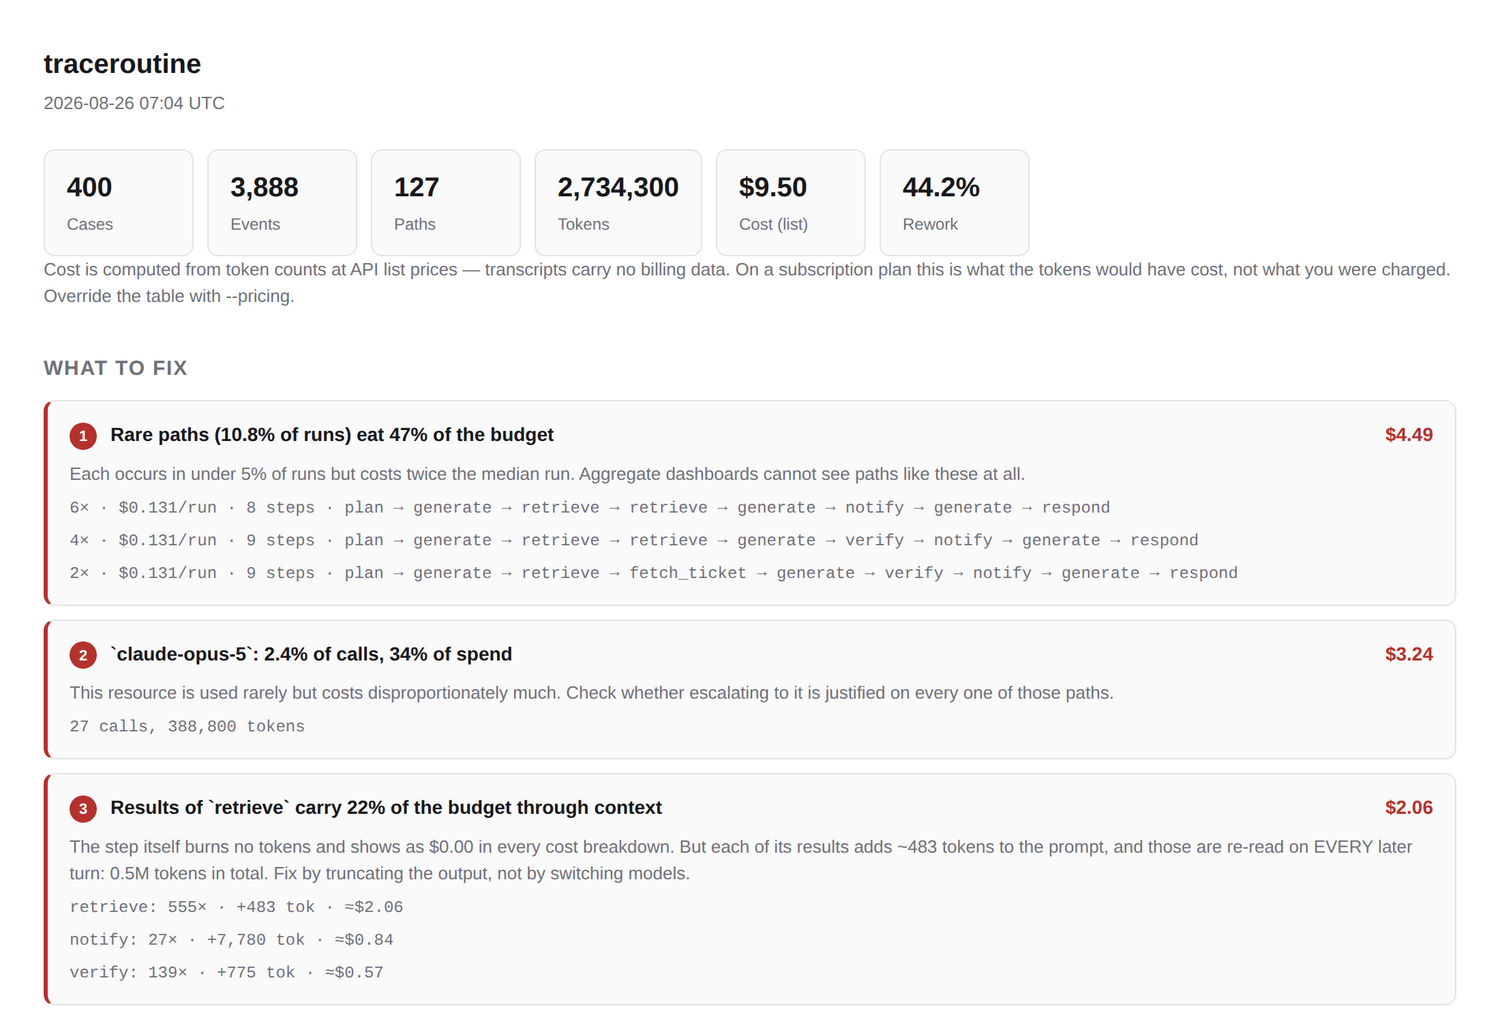
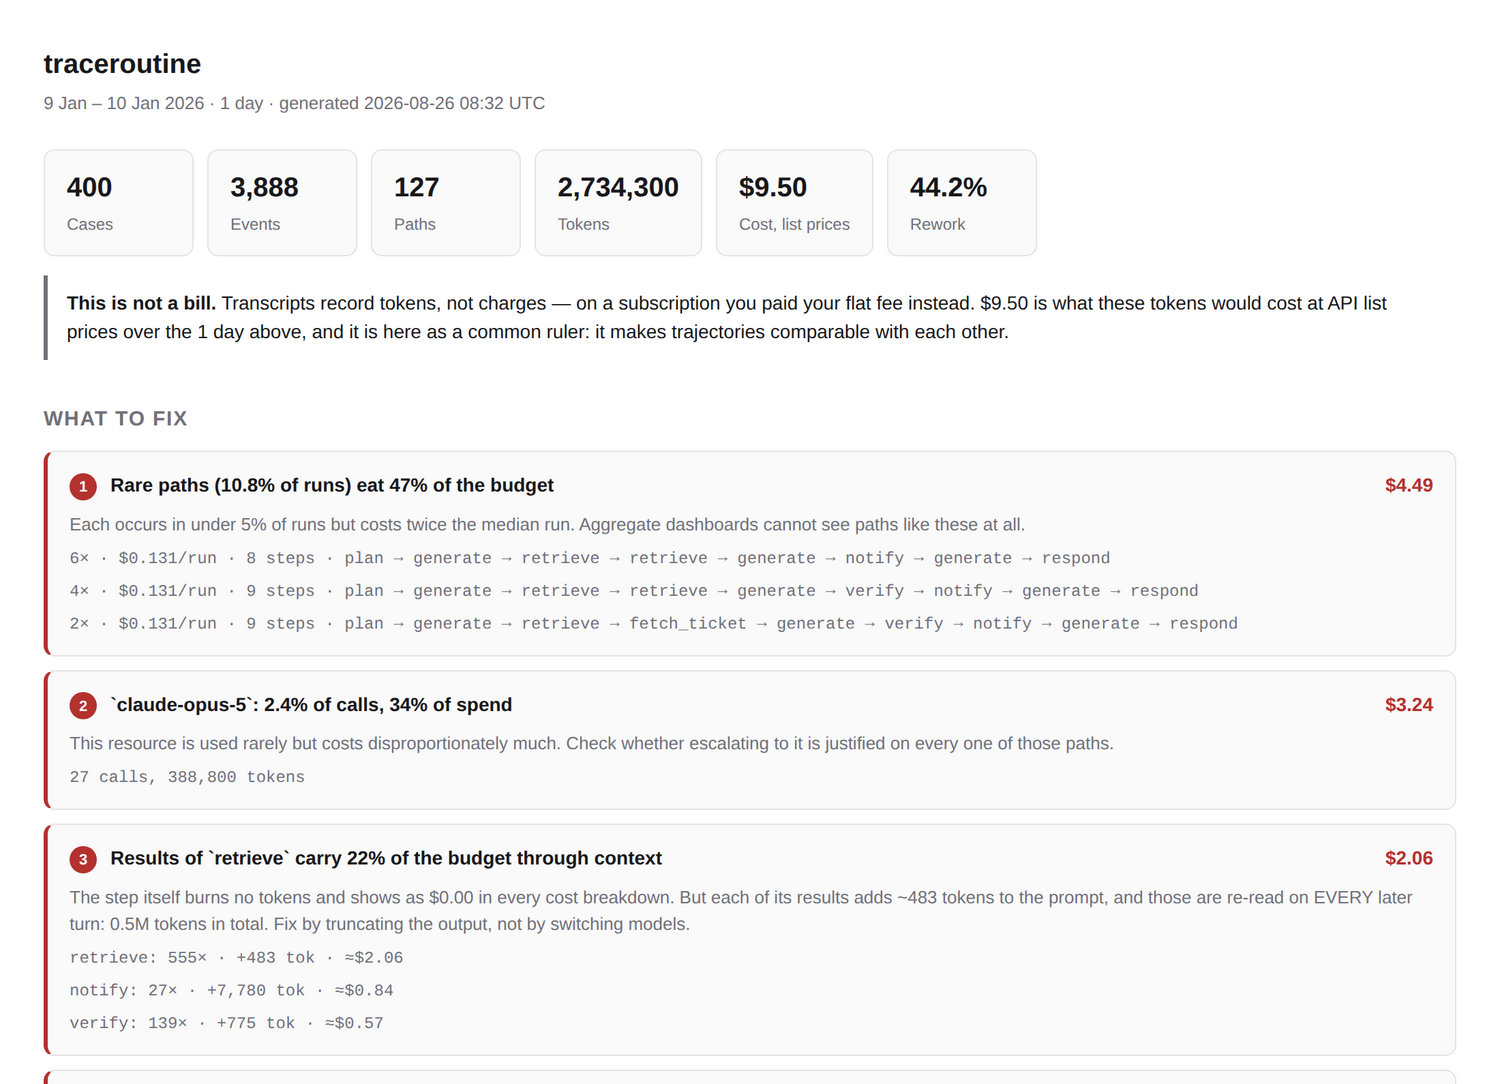
Answer the three questions the report kept provoking
Someone who already knew the answer looked at the HTML report and still asked
where $800 came from on a $20 subscription. That settles it: the note added
yesterday does not work. It was styled as `class=sub` — small, grey, identical
to the timestamp beside it — three sentences of hedging under a row of large
bold numbers. It now leads with the answer, in its own bordered block: **This
is not a bill.**

The report also had no period at all. The date in the header was when the
report was generated, which made it worse: today's date next to a large sum
reads as today's spending. A total without a span means nothing — "$813" reads
as a day, a month and all time alike, and those are three different
conclusions. The header now carries the range the log covers and its length,
and the note says the sum is over that span.

And the graph was unreadable for reasons that only show on a hub-shaped log,
which is what a coding agent is:

- reciprocal edges drew on the same curve, so 4,088 out and 4,068 back were one
  line with two labels on top of each other. A pair is one round trip and is
  now drawn as one: `4,088 ⇄ 4,068`.
- seven tools in a single rank made the canvas 1,940px wide inside a scrolling
  box, so the reader saw a fragment. Wide ranks wrap at four.
- self-loops degenerated to a point. `tool:Bash` follows itself 142 times and
  that was invisible; it is now an arc beside the node.

diff --git a/src/traceroutine/report.py b/src/traceroutine/report.py
@@ -83,11 +83,30 @@ FREE_STEPS_NOTE = (
 # первый же пользователь на Pro за $20 видит «$788» и делает единственно
 # разумный вывод: инструмент врёт. Число при этом полезное — оно даёт общую
 # линейку, по которой сравнимы пути; врёт не оно, а слово «потрачено».
+PRICING_NOTE_HEAD = "This is not a bill."
 PRICING_NOTE = (
-    "Cost is computed from token counts at API list prices — transcripts carry no "
-    "billing data. On a subscription plan this is what the tokens would have cost, "
-    "not what you were charged. Override the table with `--pricing`."
+    "Transcripts record tokens, not charges — on a subscription you paid your flat fee "
+    "instead. {amount} is what these tokens would cost at API list prices over the "
+    "{days} above, and it is here as a common ruler: it makes trajectories comparable "
+    "with each other."
 )
+
+
+def _period(m: Model) -> tuple[str, str]:
+    """Диапазон лога и его длина. Сумма без периода не значит ничего.
+
+    «$813» читается как «за сегодня», «за месяц» и «за всё время» одинаково —
+    это три разных вывода. Дата в шапке была временем ГЕНЕРАЦИИ отчёта и только
+    усиливала путаницу: читатель видел сегодняшнее число рядом с большой суммой.
+    """
+    if not m.t_min:
+        return "", "log"
+    a = datetime.fromtimestamp(m.t_min, timezone.utc)
+    b = datetime.fromtimestamp(m.t_max, timezone.utc)
+    days = max(1, round((m.t_max - m.t_min) / 86400))
+    same_year = a.year == b.year
+    left = f"{a.day} {a:%b}" + ("" if same_year else f" {a.year}")
+    return f"{left} – {b.day} {b:%b} {b.year}", f"{days} day" + ("s" if days != 1 else "")
 
 
 def _spine(m: Model, max_nodes: int, min_edge: float) -> tuple[list[str], dict]:
@@ -120,7 +139,8 @@ def render_markdown(m: Model, *, max_nodes: int = 25, min_edge: float = 0.02,
     L = [
         "# traceroutine — agent process report",
         "",
-        f"_{datetime.now(timezone.utc):%Y-%m-%d %H:%M UTC}_",
+        f"_{_period(m)[0] or 'log'} · {_period(m)[1]} · "
+        f"generated {datetime.now(timezone.utc):%Y-%m-%d %H:%M UTC}_",
         "",
         "## Summary",
         "",
@@ -133,7 +153,8 @@ def render_markdown(m: Model, *, max_nodes: int = 25, min_edge: float = 0.02,
         f"| Cost (API list prices) | {_usd(m.total_cost)} |",
         f"| Rework rate | {m.rework_rate:.1%} |",
         "",
-        f"_{PRICING_NOTE}_",
+        f"**{PRICING_NOTE_HEAD}** "
+        + PRICING_NOTE.format(amount=_usd(m.total_cost), days=_period(m)[1]),
         "",
     ]
 
@@ -294,10 +315,19 @@ def _layout(m: Model, order: list[str], edges: dict) -> dict:
     by_rank: dict[int, list[str]] = {}
     for node in [START] + order + [END]:
         by_rank.setdefault(rank.get(node, 1), []).append(node)
-    pos = {}
-    for r, nodes in by_rank.items():
-        for i, node in enumerate(nodes):
-            pos[node] = (60 + i * 260 - (len(nodes) - 1) * 130, 60 + r * 120)
+    # Широкий ранг сворачивается в несколько строк. Семь инструментов в одну
+    # линию давали холст в 1940 px — читатель видел кусок и должен был скроллить
+    # вбок, а у агента ранг «всё, что вызывает chat» широк по определению.
+    ROW = 4
+    pos, y = {}, 60
+    for r in sorted(by_rank):
+        nodes = by_rank[r]
+        for i in range(0, len(nodes), ROW):
+            row = nodes[i:i + ROW]
+            for j, node in enumerate(row):
+                pos[node] = (60 + j * 260 - (len(row) - 1) * 130, y)
+            y += 120
+    del r
     # Ранг с несколькими узлами центрируется относительно 60 и уезжает в
     # отрицательный x, а viewBox начинается с нуля: узел и подпись ребра просто
     # обрезались слева. Сдвигаем весь холст, а не отдельный ранг, иначе поедут
@@ -318,15 +348,47 @@ def render_html(m: Model, *, max_nodes: int = 60, min_edge: float = 0.01,
     w, h = max(xs) + 320, max(ys) + 120
 
     svg = []
-    for (a, b), e in edges.items():
-        if a in pos and b in pos:
-            x1, y1 = pos[a]; x2, y2 = pos[b]
-            width = 1 + 4 * (e.n / max(x.n for x in edges.values()))
+    top = max((x.n for x in edges.values()), default=1)
+    drawn: set[tuple[str, str]] = set()
+    for (a, b), e in sorted(edges.items(), key=lambda kv: -kv[1].n):
+        if a not in pos or b not in pos or (a, b) in drawn:
+            continue
+        drawn.add((a, b))
+        width = 1 + 4 * (e.n / top)
+
+        # Петля: `tool:Bash → tool:Bash`, 142 раза. Прямая кривая из узла в себя
+        # вырождается в точку, поэтому рисуем дужку сбоку — иначе самый частый
+        # цикл в логе просто не виден.
+        if a == b:
+            x, y = pos[a]
             svg.append(
-                f'<path d="M{x1+80},{y1+26} C{x1+80},{y1+70} {x2+80},{y2-40} {x2+80},{y2}" '
-                f'fill="none" stroke="var(--edge)" stroke-width="{width:.1f}" marker-end="url(#a)"/>'
-                f'<text x="{(x1+x2)/2+84}" y="{(y1+y2)/2+20}" class="el">{e.n}</text>'
-            )
+                # Сбоку, а не сверху: сверху к узлу приходят входящие рёбра, и
+                # петля садилась ровно на их стрелку. Дуга с подписью умещаются
+                # в стометровый зазор между соседями по рангу.
+                f'<path d="M{x+160},{y+14} C{x+198},{y+6} {x+198},{y+46} {x+160},{y+38}" '
+                f'fill="none" stroke="var(--edge)" stroke-width="{width:.1f}" '
+                f'marker-end="url(#a)"/>'
+                f'<text x="{x+218}" y="{y+30}" class="el">↺ {e.n:,}</text>')
+            continue
+
+        x1, y1 = pos[a]; x2, y2 = pos[b]
+        # Обратное ребро между той же парой ложится на ту же кривую: 4 088 туда и
+        # 4 068 обратно сливались в одну линию с двумя налезающими подписями.
+        # Пара — это один round trip, так его и рисуем.
+        back = edges.get((b, a))
+        if back is not None:
+            drawn.add((b, a))
+            width = 1 + 4 * (max(e.n, back.n) / top)
+            label = f"{e.n:,} ⇄ {back.n:,}"
+            marker = ' marker-start="url(#r)" marker-end="url(#a)"'
+        else:
+            label, marker = f"{e.n:,}", ' marker-end="url(#a)"'
+
+        svg.append(
+            f'<path d="M{x1+80},{y1+26} C{x1+80},{y1+70} {x2+80},{y2-40} {x2+80},{y2}" '
+            f'fill="none" stroke="var(--edge)" stroke-width="{width:.1f}"{marker}/>'
+            f'<text x="{(x1+x2)/2+84}" y="{(y1+y2)/2+20}" class="el">{label}</text>'
+        )
     for node, (x, y) in pos.items():
         if node in (START, END):
             svg.append(f'<rect x="{x+20}" y="{y}" width="120" height="26" rx="13" class="term"/>'
@@ -383,10 +445,16 @@ def render_html(m: Model, *, max_nodes: int = 60, min_edge: float = 0.01,
     stats = {
         "Cases": f"{m.n_cases:,}", "Events": f"{m.n_events:,}",
         "Paths": f"{len(m.variants):,}", "Tokens": f"{m.total_tokens:,}",
-        "Cost (list)": _usd(m.total_cost), "Rework": f"{m.rework_rate:.1%}",
+        "Cost, list prices": _usd(m.total_cost), "Rework": f"{m.rework_rate:.1%}",
     }
     tiles = "".join(f'<div class=t><b>{v}</b><span>{k}</span></div>' for k, v in stats.items())
-    pricing_note = f'<div class=sub>{html.escape(PRICING_NOTE.replace(chr(96), ""))}</div>' 
+    period, days = _period(m)
+    # Не class=sub: серым мелким шрифтом это читалось как служебная подпись рядом
+    # с датой, и вопрос «откуда $800, у меня же подписка» задавали, глядя прямо
+    # на неё. Отдельный блок, жирное начало, ответ первым предложением.
+    pricing_note = (f'<div class=note><b>{html.escape(PRICING_NOTE_HEAD)}</b> '
+                    + html.escape(PRICING_NOTE.format(amount=_usd(m.total_cost), days=days))
+                    + '</div>')
 
     return f"""<!doctype html><html lang=en><meta charset=utf-8>
 <title>traceroutine — agent process report</title><meta name=viewport content="width=device-width,initial-scale=1">
@@ -402,6 +470,7 @@ h1{{font-size:20px;margin:0 0 4px}}h2{{font-size:15px;margin:32px 0 12px;color:v
 text-transform:uppercase;letter-spacing:.06em}}
 .sub{{color:var(--mut);font-size:13px;margin-bottom:24px}}
 .tiles{{display:flex;flex-wrap:wrap;gap:10px}}
+.note{{margin:14px 0 26px;padding:10px 14px;border-left:3px solid var(--mut);color:var(--fg);font-size:14px;line-height:1.5}}
 .t{{background:var(--card);border:1px solid var(--line);border-radius:8px;padding:12px 16px;min-width:110px}}
 .t b{{display:block;font-size:20px}}.t span{{color:var(--mut);font-size:12px}}
 .scroll{{overflow-x:auto;border:1px solid var(--line);border-radius:8px;background:var(--card)}}
@@ -430,7 +499,7 @@ border-top:1px solid var(--line)}}
 .st code{{background:var(--cool);padding:3px 7px;border-radius:5px;white-space:nowrap}}
 .st span{{color:var(--mut);font-size:12px}}
 </style>
-<h1>traceroutine</h1><div class=sub>{datetime.now(timezone.utc):%Y-%m-%d %H:%M UTC}</div>
+<h1>traceroutine</h1><div class=sub>{period} &middot; {days} &middot; generated {datetime.now(timezone.utc):%Y-%m-%d %H:%M UTC}</div>
 <div class=tiles>{tiles}</div>
 {pricing_note}
 {find_block}
@@ -438,7 +507,9 @@ border-top:1px solid var(--line)}}
 <h2>Process graph</h2>
 <div class=scroll><svg width="{w}" height="{h}" viewBox="0 0 {w} {h}">
 <defs><marker id=a markerWidth=8 markerHeight=8 refX=7 refY=3 orient=auto>
-<path d="M0,0 L0,6 L7,3 z" fill="var(--edge)"/></marker></defs>{''.join(svg)}</svg></div>
+<path d="M0,0 L0,6 L7,3 z" fill="var(--edge)"/></marker>
+<marker id=r markerWidth=8 markerHeight=8 refX=1 refY=3 orient=auto>
+<path d="M8,0 L8,6 L1,3 z" fill="var(--edge)"/></marker></defs>{''.join(svg)}</svg></div>
 {free_note}
 <h2>Most expensive paths</h2>
 <div class=scroll><table><tr><th>Share</th><th>Total</th><th>Avg</th><th>Steps</th><th>Path</th></tr>

diff --git a/src/traceroutine/mine.py b/src/traceroutine/mine.py
@@ -49,6 +49,11 @@ class Model:
     # Разбивка по ресурсам возвращает потерянное: видно, что дорого не «обращение к
     # модели», а конкретно эскалация на большую.
     resource_cost: dict[str, dict] = field(default_factory=dict)
+    # Период, который покрывает лог. Сумма без периода не значит ничего: «$813»
+    # читается как «за сегодня», «за месяц» и «за всё время» одинаково, а это
+    # три разных вывода. Первое, что спросили, увидев отчёт.
+    t_min: float = 0.0
+    t_max: float = 0.0
 
     @property
     def rework_rate(self) -> float:
@@ -136,6 +141,10 @@ def mine(events: list[dict]) -> Model:
             c_dur += dur
             m.n_events += 1
             m.total_tokens += tok
+            ts = ev["ts_start"] or 0.0
+            if ts:
+                m.t_min = ts if not m.t_min else min(m.t_min, ts)
+                m.t_max = max(m.t_max, ev["ts_end"] or ts)
 
         m.total_cost += c_cost
 

diff --git a/src/traceroutine/__init__.py b/src/traceroutine/__init__.py
@@ -1,1 +1,1 @@
-__version__ = "0.2.1"
+__version__ = "0.3.0"
